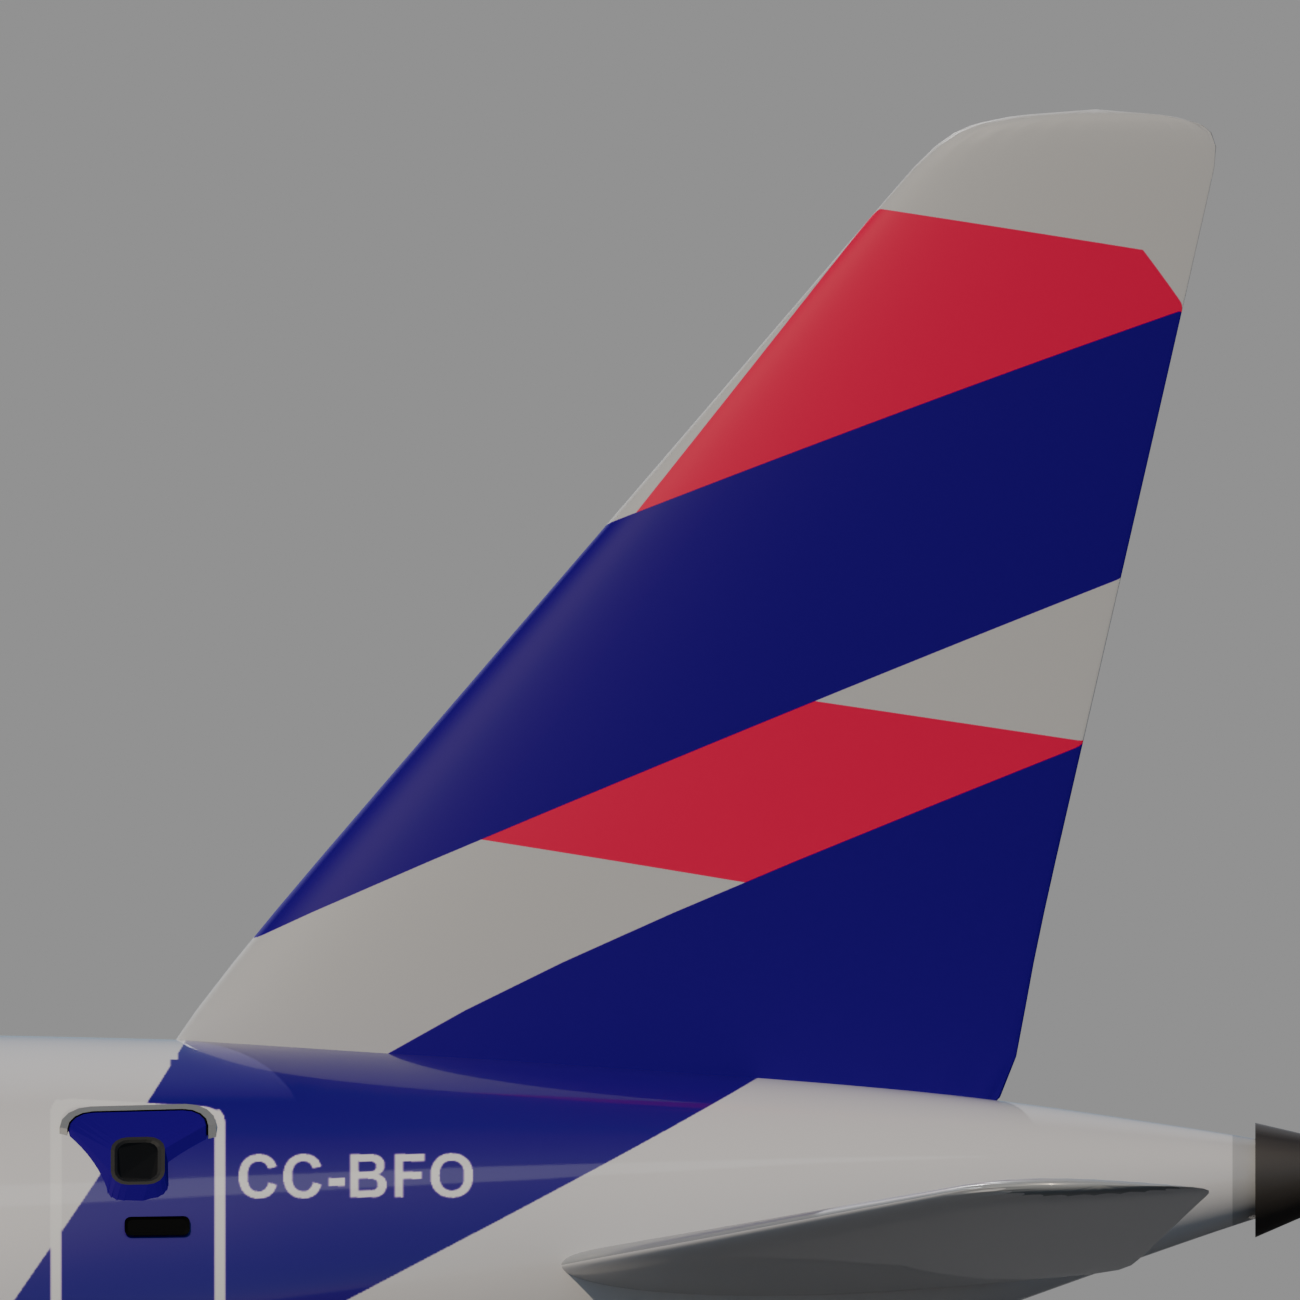
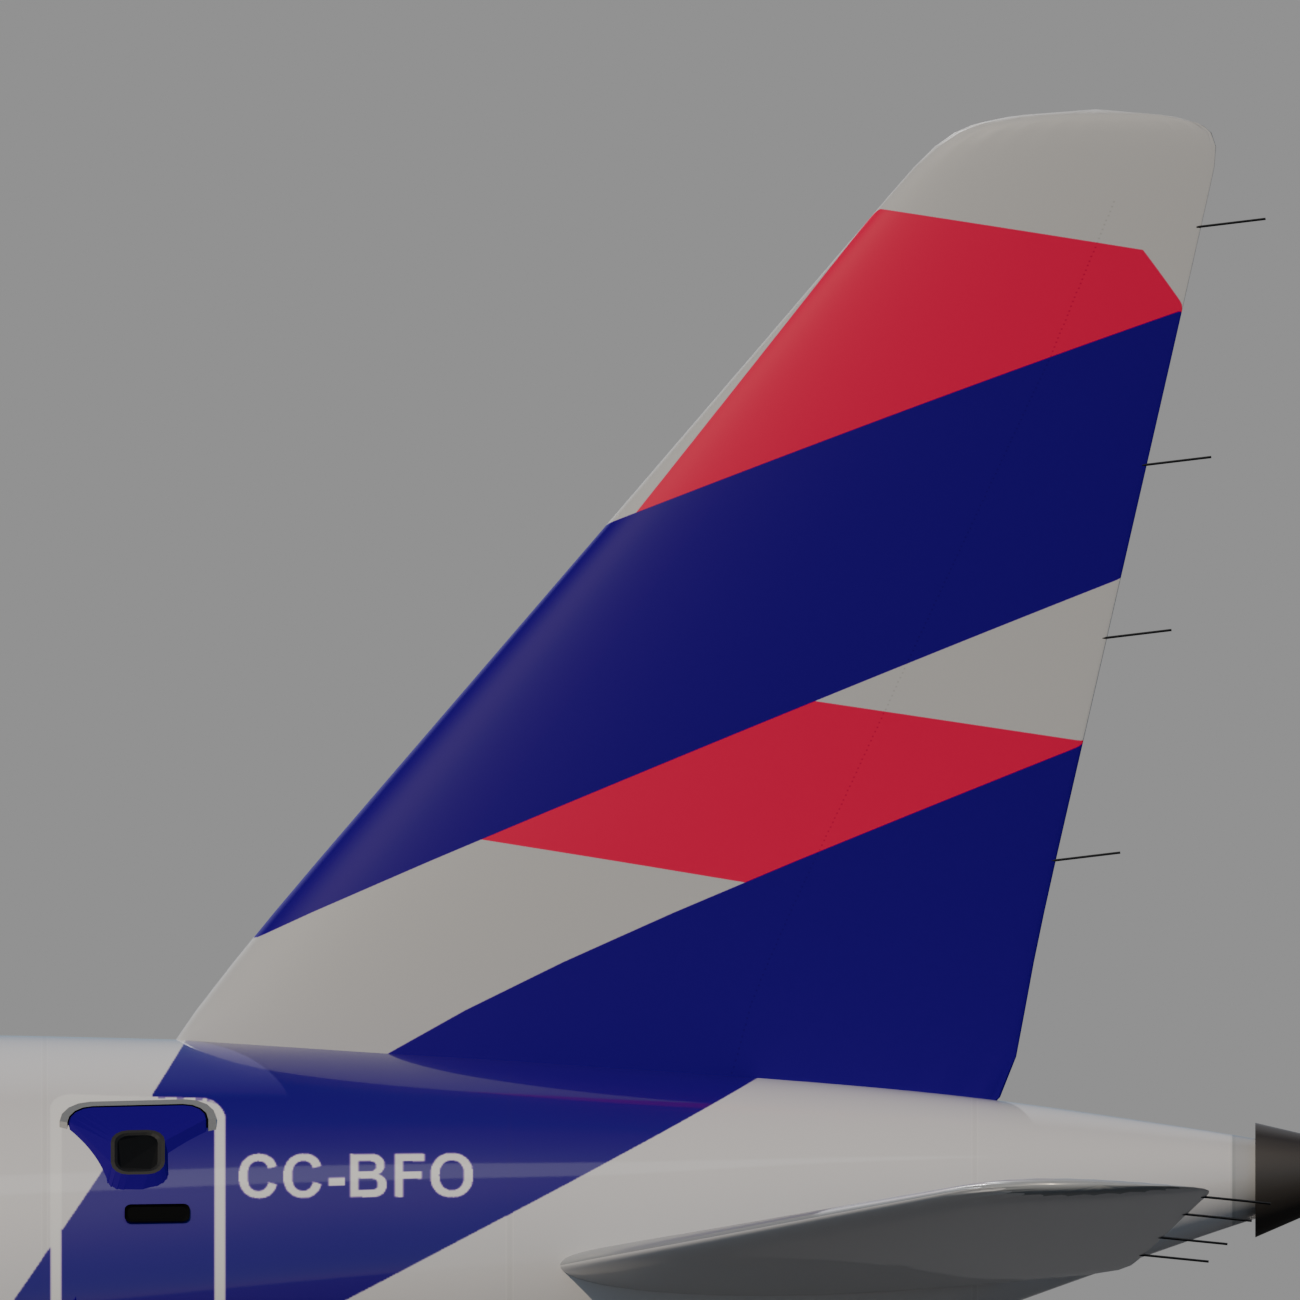
A rodada de impressão fecha: galeria, capa, fin orthos e os livros em dia
- PENDENCIAS item 3 fechado (a rodada inteira resumida no item).
- QA-BACKLOG: a entrada 'AIRBUS A3' vira CLOSED com o método do título; nova
  seção nomeia os quatro deferidos da rodada (caixa da matrícula de asa da
  família A320 sem quadro de intradorso; spoilers do 777 sem foto do
  extradorso — e o defeito descoberto: a AsaLinhas do 777 nunca renderizou,
  asas sem UV; elevator cutlines; 787-8 derivado do -9) e a regra de
  idempotência (impressao/empenagem rodam UMA vez; asa é idempotente).
- REBUILD.md: a sequência de impressão pós-marcas, com a regra do rodar-uma-
  vez e o novo rebuild do A319 (tarefa titulo no lugar do bloco legado).
- galeria_*.png + capa.png regenerados dos gates novos; fin orthos da
  família A320 re-renderizados (a deriva foi repintada — linha do leme).
- Clipes NÃO re-renderizados: as cenas linkam os masters; o próximo render
  de cena apanha a impressão (a cadeia do takeoff precisa do user_remap de
  imagens, como a rodada dos apêndices documentou).

Changed region(s): [[0.0308, 0.8308, 0.4, 0.9538]]

diff --git a/QA-BACKLOG.md b/QA-BACKLOG.md
@@ -271,22 +271,60 @@ eye level on a light nose.
 
 ---
 
-## A319: the type title reads "AIRBUS A3"
+## CLOSED 2026-08-27: the A319 title reads "AIRBUS A319" again
 
-Found by the `(x, θ)` marks audit, which measured the right box on the PT-TMT
-photo (`refs/ref_sdu_00.jpg`: x 22.40–24.35, whole title on the white, rear end
-~0.12 m ahead of the boundary) and then **declined to move the ink**.
-
-The reason is worth stating: the glyphs "1", "9" and the Airbus swirl were
-destroyed when the wedge was painted over them, and **the source art no longer
-exists in the blend** — there is no A319 title mesh. Moving the surviving ink
-would only float a truncated title at the right station. The fix needs
-`airbus_a320neo_logo.svg` re-imported and the digits rebuilt, which is the
-deviation `spec_a319.json → livery_pt_tmt.titulo` already documents.
+The surface-print round rebuilt the whole title from real art through the
+single painter (`refazer_marcas.py -- a319 titulo`): AIRBUS+A+3 from the
+`MarkAirbusNeo_E` islands (the official a320neo SVG), the **'1' is the real
+glyph from `airbus_a321neo_logo.svg`** (same title font), and the digits sit
+in the official '2'/'0' SLOTS so the letterspacing is the mark's own. The
+'9' is the one glyph with no SVG source anywhere in the repo: built from the
+official '0''s own bowl (0.72 cap, top-aligned) + a 0.19-cap stem, checked
+against the PT-TMT crop (`refs/ref_sdu_00.jpg`) — declared in
+`spec_a319.json → livery_pt_tmt.titulo`. Navy #1C2E63 (off the white→indigo
+segment, so `reparar_echarpe`'s colour guard also protects it; the `poupar`
+box was widened to x 23.40–25.00 anyway). The legacy ring-'9' block in
+`_marcas_a319` is retired; rebuilds run the `titulo` task. Method note: the
+digit islands are 0.64 of the AIRBUS cap in the official art and the first
+'1'-import merged italic glyphs when clustered by x-interval — cluster by
+mesh connectivity and scale digits by the '3''s own cap.
 
 ---
 
 
+
+## Surface-print round 2026-08-27: what was deferred, and why
+
+The round that put panel joints, the belly-fairing seam, wing cutlines, the
+under-wing registration and the rudder line on the fleet (PENDENCIAS item 3)
+left four things named:
+
+- **A320-family under-wing registration box is fleet-law, not photo.** No
+  frame in the repo shows a LATAM A320-family wing underside. The five
+  Airbus boxes (y 10.21–14.85, aileron band) apply the law measured on
+  PT-MUG/CC-BGG/N536LA/CC-CXE — wing, orientation and cove anchor are
+  photographic; the SPAN PLACEMENT is derived. One from-below frame of any
+  fleet A320 closes it (spec `impressao_2026-08-27.asa.matricula`).
+- **777 spoiler lines deferred.** The 777's shipped AsaLinhas NEVER rendered
+  — AsaD/E carry no UV layer, so the shader sampled texel (0,0) — and its
+  authoring frame is unrecoverable (no script; symmetric-mid fit is
+  degenerate, no pylon gap in the art). The round repainted the wing print
+  from the PT-MUG underside photo (TE zones + slats, canoe-anchored, ±1 m)
+  in a declared domain, but the photo shows no extradorso: spoiler panels
+  need a wing-top photo of a LATAM 777.
+- **Elevator cutlines deferred fleet-wide.** The stabilizers carry flat
+  materials (LATAM_Branco or CinzaAsa without UV); giving them a texture
+  channel is material surgery on 11 masters for a line that reads only at
+  CamCauda. Do it if a gate ever misses it.
+- **787-8 joints and under-wing box are derived, not measured**: the -9's
+  photo-measured barrel joins shifted by the derivation plugs, and the -9's
+  reg band on the identical wing. A CC-BBF/BBB frame would close both.
+
+Also named: `impressao`/`empenagem` are **not idempotent** (tint composites
+— running twice doubles the darkening); `asa` is (channel B is wiped and
+lines compose by max). REBUILD.md carries the run-once rule.
+
+---
 
 ## A320 family: the flap-track fairings are not at the ACAP stations
 
@@ -543,13 +581,9 @@ no indigo.
 
 ### em aberto
 
-1. **O titulo do A319 ainda precisa de arte** (entrada propria acima: "AIRBUS
-   A3"). Novo dado de 08-26: com a cunha recuada a tinta sobrevivente ficou
-   INTEIRA no branco. As leituras de posicao divergem (21.4..23.2 na sdu_00
-   corrigida x 23.45..25.20 do modelo), mas a sdu_01 mostra o titulo quase
-   encostando na fronteira — o que bate com a caixa do modelo sob a fronteira
-   NOVA. Reconstruir os glifos primeiro; so mover a caixa se uma foto com
-   escala local confiavel mandar.
+1. ~~O titulo do A319 ainda precisa de arte~~ — **fechado 2026-08-27**
+   (entrada propria acima): glifos reconstruidos de arte real na caixa do
+   modelo, que a sdu_01 corrobora; a caixa nao foi movida.
 2. **O `Reg_E` do A319 guarda PT-TMN, nao PT-TMT.** Pintar a matricula por
    `refazer_marcas.py` escreve a matricula do master. Os glifos certos existem
    so como tinta; `fix_matricula_a319.py` os move como tinta.

diff --git a/PENDENCIAS.md b/PENDENCIAS.md
@@ -46,9 +46,29 @@ eles tocam.
    byte-quase-idênticos) que objeto na raiz não viaja pelo link. Prova em
    `scenario_sbgr/showcase_apendices_777{,_strip,_diff}.png`: beacon
    dorsal e luzes lendo na cena real depois da correção.
-3. **Rodada de impressão de superfície (frota)** — linhas de painel e
-   cutlines de comandos, matrícula sob a asa, e a arte SVG dos títulos
-   (fecha o "AIRBUS A3" do A319). PRÓXIMA.
+3. ~~Rodada de impressão de superfície (frota)~~ — **fechada 2026-08-27**:
+   o pintor único ganhou as tarefas `impressao`/`asa`/`empenagem`/`titulo`.
+   (a) Lei da sutileza MEDIDA antes de pintar: juntas reais lêem a
+   -0.8..-3.8% de luminância (3 faixas da PT-MUC em EGLL); a tinta compõe a
+   alpha 0.032 (787: 0.022) e o gate devolve -0.8..-1.2% — painéis, não
+   wireframe. Juntas circunferenciais nas tabelas citadas por tipo (as do
+   787-9 MEDIDAS na foto da CC-BGG, 4 emendas de barril; as do -8 deslocadas
+   pelos plugs), radome, anel do APU, costura da carenagem lida da PRÓPRIA
+   malha BellyFairing. Os PanelBump mortos dos dois A320 (packed=False)
+   regenerados. (b) Matrícula sob a asa DIREITA em TODAS as onze — lei
+   fotografada em 4 quadros de 3 tipos (PT-MUG/CC-BGG/N536LA/CC-CXE):
+   raiz->ponta, topo para o BA, avante do cove; canal B novo em AsaLinhas,
+   só intradorso, arte de cada casco. Família A320 ganhou UVAsa+AsaLinhas+
+   ramo de shader novos (cutlines do plano ACAP p.45 em frações de
+   envergadura); o 777 tinha AsaLinhas que NUNCA renderizou (asas sem UV,
+   frame irrecuperável) — repintada da foto da própria PT-MUG. (c) Leme
+   escurecido x0.91 nas FinSash da frota. (d) O título do A319 diz
+   **AIRBUS A319** com arte real (fecha o "AIRBUS A3" do QA; '9' construído
+   do '0' oficial, declarado). Deferidos com registro no QA-BACKLOG:
+   spoilers do 777 (sem foto do extradorso), cutlines de elevator (estabs
+   sem canal de textura), caixa da matrícula de asa da família A320 (sem
+   quadro de intradorso no repo). Clipes NÃO re-renderizados: as cenas
+   linkam os masters e apanham a impressão no próximo render de cena.
 4. **Detalhe de cena** — jetbridges articuladas, GSE fino, variantes de
    luz (anoitecer GRU). DEPOIS.
 

diff --git a/REBUILD.md b/REBUILD.md
@@ -57,6 +57,31 @@ mais**: `build_a321_fase2b_espelho.py`, `fix_reg_ghosts.py`,
 (a matrícula do A319 agora é pintada da recombinação P,T,-,T,M,T do próprio
 `Reg_E`, na caixa final que o fix mediu).
 
+## A impressão de superfície (2026-08-27)
+
+Depois da sequência de marcas de cada aeronave, a rodada de impressão roda
+**UMA vez**:
+
+    refazer_marcas.py -- <tag> impressao asa empenagem      # 11 tags
+    refazer_marcas.py -- a319 titulo                        # só o A319
+
+- `impressao` (juntas/radome/APU/costura) e `empenagem` (leme) **NÃO são
+  idempotentes**: a tinta compõe multiplicativamente sobre a cor efetiva —
+  rodar duas vezes dobra o escurecimento. Depois de um rebuild de livery
+  (que restaura a base chapada) elas rodam UMA vez, nunca em manutenção
+  sobre textura já impressa.
+- `asa` É idempotente (canal B zerado antes da matrícula; linhas compõem
+  por máximo) e re-posicionável.
+- `titulo` do A319 É idempotente (o erase alveja INDIGO e NAVY).
+- O A319 rebuild vira: `build_a319_livery.py` → `portas_familia -- construir`
+  → `refazer_marcas.py -- a319 lockup marcas titulo` → `reparar_echarpe.py
+  -- a319 --forcar` → `refazer_marcas.py -- a319 impressao asa empenagem`
+  (o bloco legado do título em `_marcas_a319` foi aposentado).
+- Tabelas e fontes de medida: `IMPRESSAO`/`ASA`/`EMPENAGEM` em
+  `refazer_marcas.py` + bloco `impressao_2026-08-27` no spec de cada
+  aeronave. Os PanelBump dos dois A320 são regenerados por `impressao`
+  (`pb_regen`).
+
 ## A aceitação medida (dump-and-diff, cor EFETIVA, em cópias — nada embarcado)
 
 Todo diff abaixo é `mix(#E6E7EA, LiveryTex, LiveryFac)` texel a texel contra a
